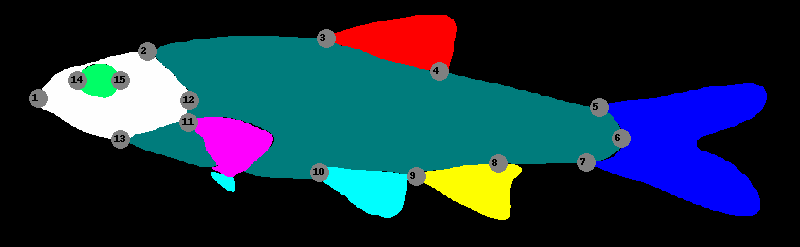
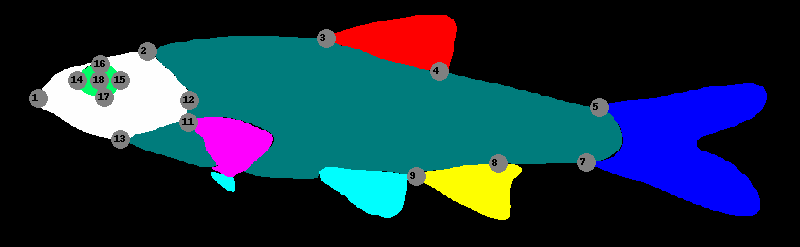
add fish angles

Changed region(s): [[0.0938, 0.2267, 0.1562, 0.4251], [0.75, 0.5101, 0.8125, 0.5951], [0.375, 0.6518, 0.4375, 0.7368]]

diff --git a/Scripts/Traits_class.py b/Scripts/Traits_class.py
@@ -8,26 +8,29 @@ Class definition for morpholopgy analysis
 Version 1
 """
 import os, sys, math, json
+from operator import sub
 import numpy as np
 from PIL import Image, ImageDraw, ImageFont
 from skimage.measure import label, regionprops
 from skimage.morphology import reconstruction
 
+
 class segmented_image:
     
     def __init__(self, file_name):
         self.file = file_name
-        self.image_name = os.path.split(file_name)[1]     # creates a new empty list for each dog
+        self.image_name = os.path.split(file_name)[1]
+        self.base_name = self.image_name.rsplit('_',1)[0]
         self.trait_color_dict={'background': [0, 0, 0],'dorsal_fin': [254, 0, 0],'adipos_fin': [0, 254, 0],
                                'caudal_fin': [0, 0, 254],'anal_fin': [254, 254, 0],'pelvic_fin': [0, 254, 254],
                                'pectoral_fin': [254, 0, 254],'head': [254, 254, 254],'eye': [0, 254, 102],
                                'caudal_fin_ray': [254, 102, 102],'alt_fin_ray': [254, 102, 204],
                                'trunk': [0, 124, 124]}
-        self.cutoff = 0.95
+        self.cutoff = 0.60
         self.img_arr = self.import_image(file_name)
         self.get_channels_mask()
         self.presence_matrix = self.get_presence_matrix()
-        self.fish_angle = self.get_fish_angle()
+        self.fish_angle = self.get_fish_angle_pca()
         
     def get_all_measures_landmarks(self):
         '''
@@ -36,6 +39,8 @@ class segmented_image:
         self.landmark = self.all_landmark()
         self.measurement_with_bbox = self.all_measure_using_bbox()
         self.measurement_with_lm = self.all_measure_using_lm()
+        self.measurement_with_area = self.all_measure_area()
+        
                 
     def import_image(self,file_name):
         '''
@@ -70,22 +75,26 @@ class segmented_image:
                 
         self.mask = mask
     
-    def get_fish_angle(self):
+    def get_fish_angle_pca(self):
         '''
-        Calculate orientation (PCA) of the mask of head + eye + trunk
-        We choose to combine only head eye and trunk because they are the most reliable feature, fins can bias the measurement of the 
-        orientation.
+        Calculate orientation (PCA) of the mask of whole fish
+        We choose to combine whole fish part and calculate orientation.
         return value in degree
         '''
-        angle_deg = "None"
-        head_eye_trunk = self.combine_trait_mask(['head','eye','trunk'])
-        if np.any(head_eye_trunk):
+        fish_angle = "None"
+        mask = self.mask
+        whole_fish = np.zeros_like(None,dtype="uint8")
+        for i,(k,v) in enumerate(mask.items()):
+                whole_fish = whole_fish +v
+        
+        # Check that the mask is not empty
+        if np.any(whole_fish):
             
-            trait_region = self.clean_trait_region(head_eye_trunk)
+            trait_region = self.clean_trait_region(whole_fish)
             angle_rad = trait_region.orientation
-            angle_deg = (90-angle_rad*180/math.pi)
+            fish_angle = (90-angle_rad*180/math.pi)
             
-        return angle_deg
+        return round(fish_angle,2)
     
     def align_fish(self):
         '''
@@ -110,7 +119,7 @@ class segmented_image:
         return filled
    
     
-    def clean_trait_region(self, trait_mask, percent_cut = 0.95):
+    def clean_trait_region(self, trait_mask):
         '''
         Clean the mask_trait (remove holes)
         Find the biggest region
@@ -450,7 +459,7 @@ class segmented_image:
    
     def measure_head_depth(self):
         '''
-        Measure horizontal length of the head passing through the center of the eye
+        Measure vertical length of the head passing through the center of the eye
         '''
         head_depth = 'None'
         start_v = 'None'
@@ -468,6 +477,7 @@ class segmented_image:
         
             head_vert_line = new_mask_head[:,col_eye]
         
+            # Calculate the start and end of the vertical line, for sanity check
             index_verti = np.where(head_vert_line == 1)[0]
             start_v = (np.max(index_verti),col_eye)
             end_v = (np.min(index_verti),col_eye)
@@ -493,30 +503,72 @@ class segmented_image:
     
         return body_length
 
-    def all_measure_using_lm(self):        
+    def measure_fish_angle_lm(self):
         '''
-        Collect all the measurment for the fish that using mainly landmarks
+        measure fish angle using orientation of the line define by landmark#1 and landmark #6
         '''
         landmark = self.landmark
-        measure={'SL_lm':'None', 'EA':'None', 'HA':'None', 'ED':'None', 'HL_lm':'None', 'pOD_lm':'None' }
-        # Standard Length (body length)
+        fish_angle_lm = None
         if landmark['1'] and landmark['6']:
-            measure['SL_lm'] = round(self.get_distance(landmark['1'],landmark['6']),2)
-        # Eye Area
-        measure['EA'] = self.measure_eye_area()
-        # Head area
-        measure['HA'] = self.measure_head_area()
-        # Eye Diameter
-        measure['ED'] = round(self.measure_eye_diameter(),2)
-        # Head Length
-        if landmark['1'] and landmark['12']:
-            measure['HL_lm'] = round(self.get_distance(landmark['1'],landmark['12']),2)
-        # preObital Depth
-        if landmark['1']and landmark['14']:
-            measure['pOD_lm'] = round(self.get_distance(landmark['1'],landmark['14']),2)
             
-        return measure    
+            # translation to origin
+            trans_to_origin = list(map(sub, landmark['6'], landmark['1']))
+            fish_angle_lm = math.atan2(trans_to_origin[0], trans_to_origin[1])*(180/math.pi)
+            
+        return round(fish_angle_lm,2)
     
+    def all_measure_using_lm(self):        
+        '''
+        Collect all the measurment for the fish that are only using landmarks
+        '''
+        landmark = self.landmark
+        measures_lm={'SL_lm':'None', 'HL_lm':'None','ED_lm':'None', 'HH_lm':'None', 'HH_lm_v2':'None', 'pOD_lm':'None' }
+        # Standard Length (body length), landmark
+        if landmark['1'] and landmark['6']:
+            measures_lm['SL_lm'] = round(self.get_distance(landmark['1'],landmark['6']),2)
+
+        # Head Length, landmark
+        if landmark['1'] and landmark['12']:
+            measures_lm['HL_lm'] = round(self.get_distance(landmark['1'],landmark['12']),2)
+            
+        #Eye Diamter, landmark
+        if landmark['14'] and landmark['15']:
+            measures_lm['ED_lm'] = round(self.get_distance(landmark['14'],landmark['15']),2)
+        
+        if landmark['18']:
+            # Head Height, height of the line going through the middle of the eye landmark #18
+            measures_lm['HH_lm'], start, end = self.measure_head_depth()
+            # Sanity check for the measure of HH_lm using start and end of the vertical line through the eye
+            measures_lm['HH_lm_v2'] = round(self.get_distance(start,end),2)
+            
+        # preObital Depth, landamrk
+        if landmark['1'] and landmark['14']:
+            measures_lm['pOD_lm'] = round(self.get_distance(landmark['1'],landmark['14']),2)
+        
+        # Head Depth, landmark
+        if landmark['2'] and landmark['13']:
+            measures_lm['HD_lm'] = round(self.get_distance(landmark['2'],landmark['13']),2)
+        
+        measures_lm['FA_lm'] = self.measure_fish_angle_lm()
+        
+        return measures_lm    
+
+    def all_measure_area(self):
+        '''
+        Collect measuerements calculate using the area (measure from the skimage.measure.regionprops)
+        '''
+        measure_area = {'EA_m':'None', 'HA_m':'None'}
+        # Eye Area
+        measure_area['EA_m'] = self.measure_eye_area()
+        # Head area
+        measure_area['HA_m'] = self.measure_head_area()
+        
+        return measure_area
+        
+
+        
+        
+        
 ########################
 # Measurement using bbox
 ########################
@@ -575,26 +627,24 @@ class segmented_image:
         '''
         Collect the measurment for the fish for Meghan paper
         '''
-        measure={'SL_bbox':'None', 'HL_bbox':'None', 'ED_bbox':'None', 'HD_eye':'None','pOD_bbox':'None' }
+        measures_bbox={'SL_bbox':'None', 'HL_bbox':'None', 'ED_bbox':'None','pOD_bbox':'None', 'fish_angle':'None' }
         
         # SL standart length, length bbox of head+trunk
         
-        measure['SL_bbox'] =  self.measure_SL_bbox()
+        measures_bbox['SL_bbox'] =  self.measure_SL_bbox()
         
         # HL Head Length, length of bbox of the head
-        measure['HL_bbox'] = self.measure_length_bbox('head')
+        measures_bbox['HL_bbox'] = self.measure_length_bbox('head')
         # ED Eye Diameter
-        measure['ED_bbox'] = self.measure_length_bbox('eye')
-        # Head Depth, height of the line going through the middle of the eye 
-        measure['HD_eye'], start, end = self.measure_head_depth()
+        measures_bbox['ED_bbox'] = self.measure_length_bbox('eye')
 
         # preorbital Depth
-        measure['pOD_bbox'] = self.measure_pOD_bbox()
+        measures_bbox['pOD_bbox'] = self.measure_pOD_bbox()
         
         # fish angle in case of connection
-        measure['fish_angle'] = self.fish_angle
+        measures_bbox['FA_pca'] = self.fish_angle
          
-        return measure
+        return measures_bbox
     
 ############################
 # Visualization function
@@ -609,6 +659,7 @@ class segmented_image:
             
         else:
             print(f'trait {trait} is not reference')
+            
     def visualize_landmark(self):
             
         landmark = self.all_landmark()

diff --git a/Scripts/Morphology_main.py b/Scripts/Morphology_main.py
@@ -6,7 +6,7 @@ Created on Tue May 24 09:21:33 2022
 @author: thibault
 """
 import Traits_class as tc
-import json, sys
+import json, sys, math
 import numpy as np
 
 def get_scale(metadata_file):
@@ -28,6 +28,28 @@ def get_scale(metadata_file):
         unit =[None]
     return scale , unit
 
+
+def get_angle(metadata_file):
+
+    '''
+    Calculate fish orientation from metadata file using major axis
+    return value in degree
+    
+    '''
+    f = open(metadata_file)
+    data = json.load(f)
+    metadata_fish = list(data.values())[0]['fish'][0]
+    
+    major = []
+    length = []
+    
+    if 'primary_axis' in metadata_fish  :
+        
+        major = metadata_fish['primary_axis']
+        fish_angle = math.atan2(major[1], -major[0])*(180/math.pi)
+        
+    return round(fish_angle,2)
+
 # this class is used by json.dump to control that every value as the right format
 # particular problem encounter with np.int64 value type
 class NpEncoder(json.JSONEncoder):
@@ -44,13 +66,23 @@ class NpEncoder(json.JSONEncoder):
 def main(input_file, metadata_file, output_measure, output_landmark, output_presence, 
          output_lm_image=None):
     
+    # Create the image segmentation object
     img_seg = tc.segmented_image(input_file)
-    measurement_bbox = img_seg.measurement_with_bbox
-    measurement_lm = img_seg.measurement_with_lm
-    # combine the 2 types of measurement
-    measurement = {**measurement_bbox, **measurement_lm}
+    base_name = img_seg.base_name
+    # Calcualte the mesaurements and landmarks
+    img_seg.get_all_measures_landmarks()
+    
+    # Assign variables
+    measurements_bbox = img_seg.measurement_with_bbox
+    measurements_lm = img_seg.measurement_with_lm
+    measurements_area = img_seg.measurement_with_area
     landmark = img_seg.landmark
     presence_matrix = img_seg.presence_matrix
+    
+    # Combine the 3 types of measurements (lm, bbox, area) and reorder the keys
+    measurement = {'base_name': base_name, **measurements_bbox, **measurements_lm, **measurements_area }
+    list_measure= ['base_name', 'SL_bbox', 'SL_lm', 'HL_bbox', 'HL_lm', 'pOD_bbox', 'pOD_lm', 'ED_bbox', 'ED_lm', 'HH_lm', 'EA_m','HA_m','FA_pca','FA_lm']
+    measurement = {k:measurement[k] for k in list_measure}
     
     # Extract the scale from metadata file
     # and add it to measurement dict
@@ -58,6 +90,11 @@ def main(input_file, metadata_file, output_measure, output_landmark, output_pres
     measurement['scale'] = scale
     measurement['unit'] = unit                   
     
+    # Extract the fish angle from metadata file
+    # and add it to measurement dict
+    fish_angle = get_angle(metadata_file)
+    measurement['FA_pca_meta'] = fish_angle    
+        
     # Save the dictionnaries in json file
     # use NpEncoder to convert the value to correct type (np.int64 -> int)
     with open(output_measure, 'w') as f:
